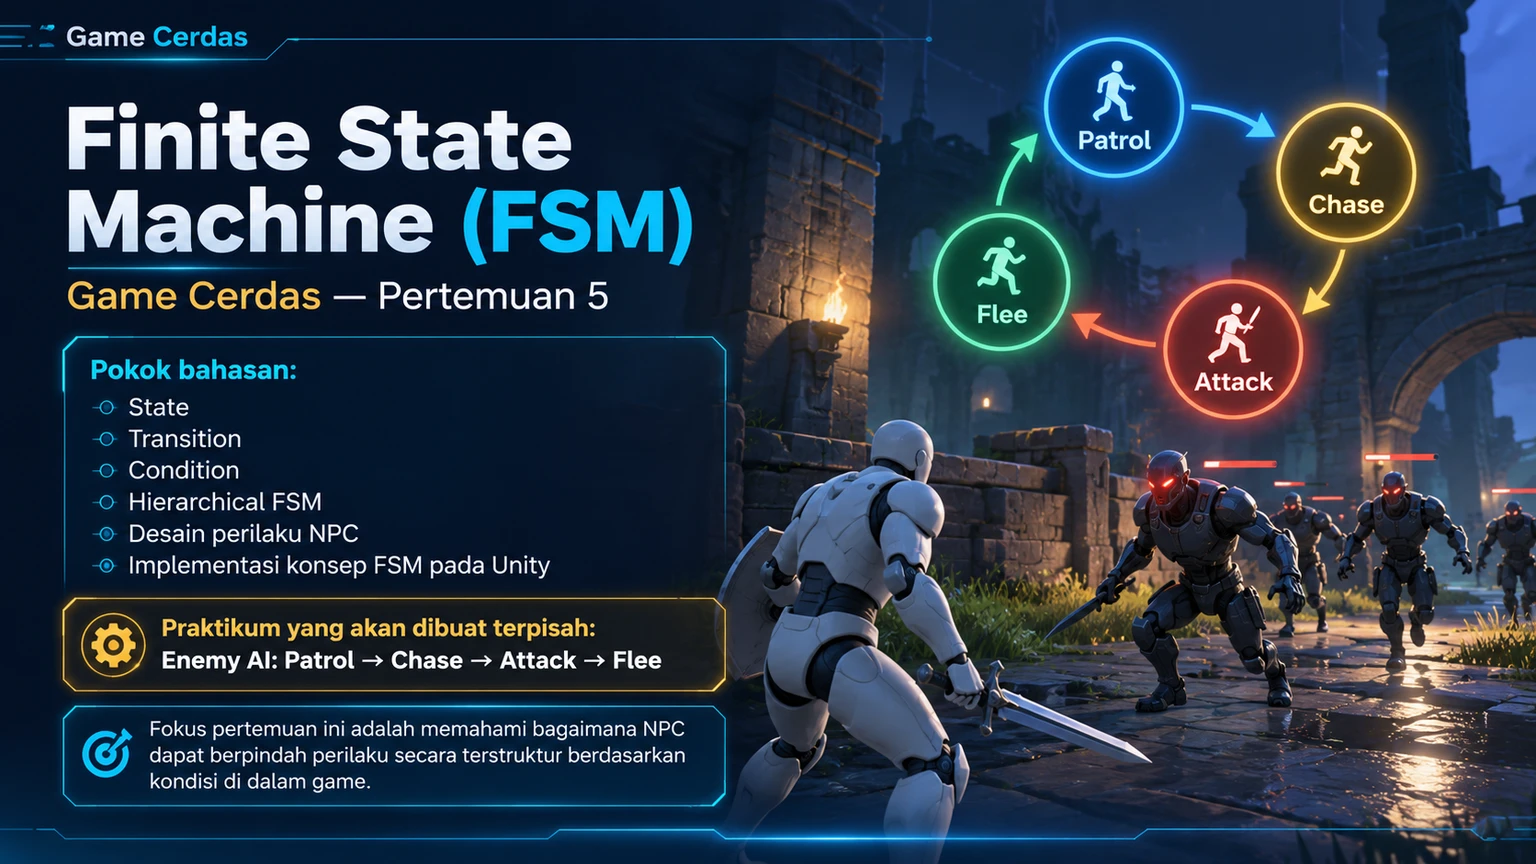
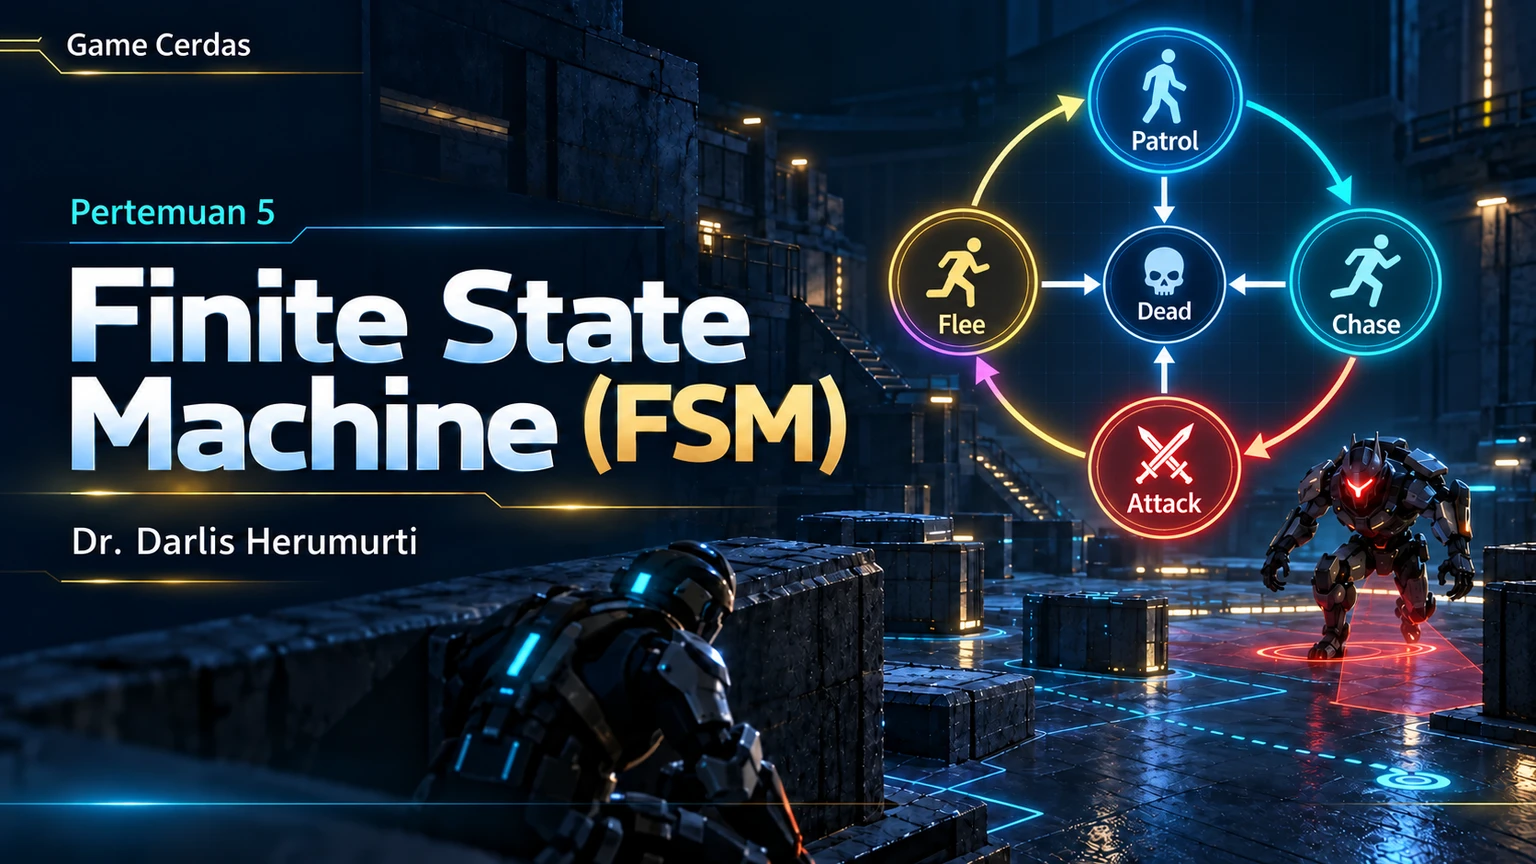
Refresh meeting 5 opening slide and export metadata

diff --git a/src/course-data.ts b/src/course-data.ts
@@ -7,7 +7,7 @@ export const courseData = {
   "description": "Materi pembelajaran Game Cerdas berbasis Markdown untuk authoring slide visual dan narasi AI.",
   "heroTitle": "Game Cerdas",
   "sourceOfferingId": 1,
-  "generatedAt": "2026-09-30T13:18:06.498Z",
+  "generatedAt": "2026-09-30T13:42:22.757Z",
   "rps": {
     "title": "RPS Game Cerdas",
     "path": "rps/rps.md"
